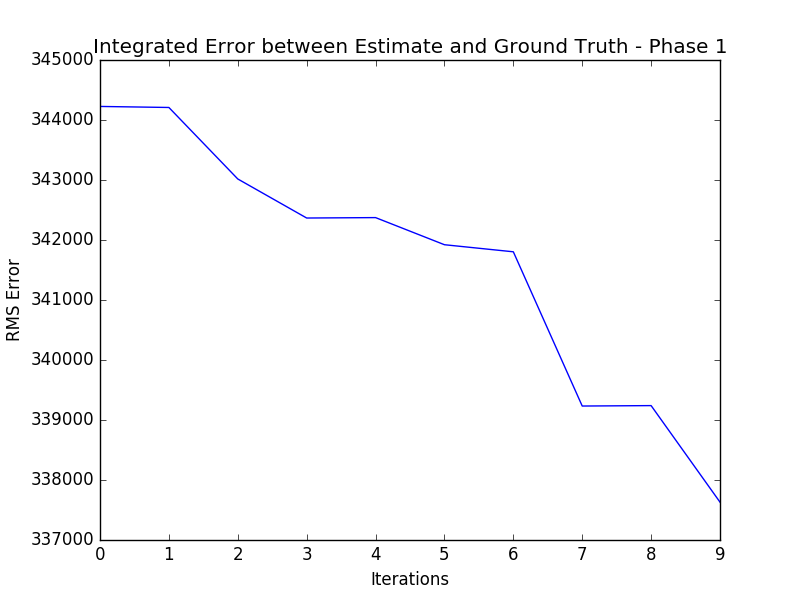
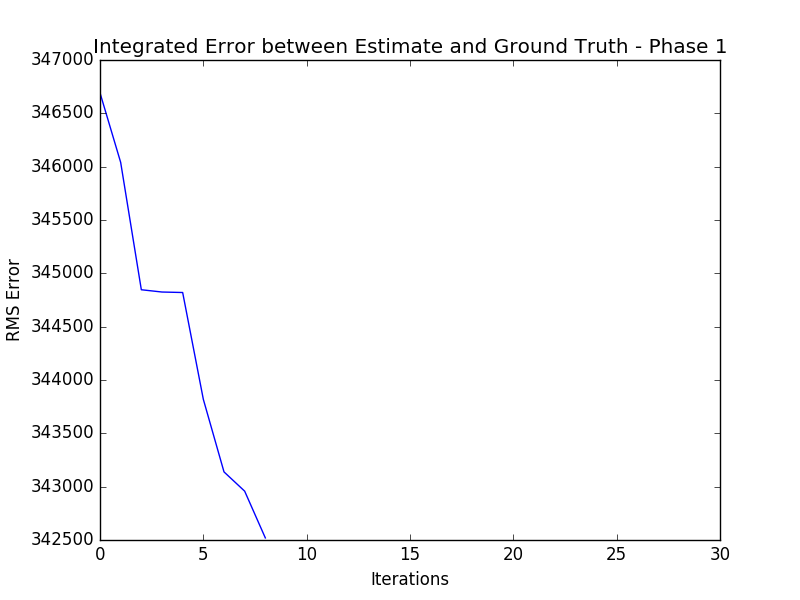
phase 1 experiments successfully run

diff --git a/src/readPhase1Data.py b/src/readPhase1Data.py
@@ -1,0 +1,65 @@
+#!/usr/bin/env python
+import sys, os, time, IPython
+import numpy as np
+import matplotlib.pyplot as plt
+
+NUM_EXPERIMENTS = 1
+
+surfaces = ["flat", "smooth_sin1"]
+textures = ["_lam", "_text", "_spec", "_st"]
+    # lambert, texture, specular, specular + texture
+methods = ["random", "maxVar","maxVarGrad"]
+
+
+def save_data(arr, name, surface_name):
+    f = open("image_pairs/"+surface_name+'/'+name, 'w')
+    f.write(str(np.array(arr).tolist()))
+    f.close()
+    return
+
+def get_data(name, surface_name):
+    f = open("image_pairs/"+surface_name+'/'+name, 'r')
+    string = f.read()
+    array = np.array;
+    data = np.array(eval(string))
+    f.close()
+    return data
+
+def save_table(table, name):
+    f = open(name + ".csv", 'wb')
+    # header
+    f.write(",,Random Probings,Max Acquisition\n")
+    # data in table
+    f.write("flat,lam,{},{},{}\n".format(*table[0]))
+    f.write(",text,{},{},{}\n".format(*table[1]))
+    f.write(",spec,{},{},{}\n".format(*table[2]))
+    f.write(",st,{},{},{}\n".format(*table[3]))
+
+    f.write("S,lam,{},{},{}\n".format(*table[4]))
+    f.write(",text,{},{},{}\n".format(*table[5]))
+    f.write(",spec,{},{},{}\n".format(*table[6]))
+    f.write(",st,{},{},{}\n".format(*table[7]))
+
+    f.close()
+    return
+
+def read_errors_from_data():
+    error_table = np.zeros((len(surfaces)*len(textures), len(methods)))
+    for i, surf in enumerate(surfaces):
+        for j, text in enumerate(textures):
+            for k in range(NUM_EXPERIMENTS): # repeat experiment number of times
+                disparityMeas = None
+                for l, method in enumerate(methods):
+                    data = get_data('data_'+method+"_exp"+str(k), surf+text)
+                    means, sigmas, sampled_points, measures, errors, num_iters, time_elapsed = data
+                    error_table[i*len(textures) + j, l] += errors[-1] / float(NUM_EXPERIMENTS)
+    save_table(error_table, "phase1_errors")
+    return
+
+
+
+if __name__ == "__main__":
+    read_errors_from_data()
+    # IPython.embed()
+
+

diff --git a/src/scaffoldPhase1.py b/src/scaffoldPhase1.py
@@ -8,8 +8,8 @@ from runPhase1 import *
 NUM_EXPERIMENTS = 1
 
 surfaces = ["flat", "smooth_sin1"]              # add another model ?
-stops = [[1.343, 0.01, 3.6, 0.0],
-         [0.0, 0.36, 0.0, 0.0]]                 # TODO change 0.0's (variance is not monotonically decreasing)
+stops = [[1.343, 1.343, 1.343, 1.343],
+         [1.343, 1.343, 1.343, 1.343]]
 textures = ["_lam", "_text", "_spec", "_st"]
     # lambert, texture, specular, specular + texture
 methods = ["random", "maxVar","maxVarGrad"]
@@ -24,7 +24,7 @@ def save_data(arr, name, surface_name):
 def save_table(table, name):
     f = open(name + ".csv", 'wb')
     # header
-    f.write(",,Random Probings,Max Acquisition\n")
+    f.write(",,Random Probings,Max Variance,Max Variance Gradient\n")
     # data in table
     f.write("flat,lam,{},{},{}\n".format(*table[0]))
     f.write(",text,{},{},{}\n".format(*table[1]))
@@ -42,6 +42,7 @@ def save_table(table, name):
 def plot_error(errors, name, surface_name):
     plt.plot(errors)
     plt.xlabel("Iterations")
+    plt.xlim(0, 30)
     plt.ylabel("RMS Error")
     plt.title("Integrated Error between Estimate and Ground Truth - Phase 1")
     plt.savefig("image_pairs/"+surface_name+'/'+name)
@@ -58,6 +59,7 @@ def run_phase1_full():
             for k in range(NUM_EXPERIMENTS): # repeat experiment number of times
                 disparityMeas = None
                 for l, method in enumerate(methods):
+                    print "Running " + surf+text + " "+ method + ":"
                     start = time.time()
                     disparityMeas, means, sigmas, sampled_points, measures, errors, num_iters = run_single_phase1_experiment(surf+text, method, disparityMeas, False, stops[i][j])
                     end = time.time()

diff --git a/src/runPhase1.py b/src/runPhase1.py
@@ -82,7 +82,7 @@ def run_single_phase1_experiment(surfacename, method, disparityMeas=None, block=
     # TODO: add termination criterion instead of counting i (when estimate stops changing)
 
     while np.max(sigma) > stops: #i < 10:
-        print "iteration = ", i
+        print "iteration =", i
         if i==0:
             # initialize measurement from stereo data
             if disparityMeas is None:
